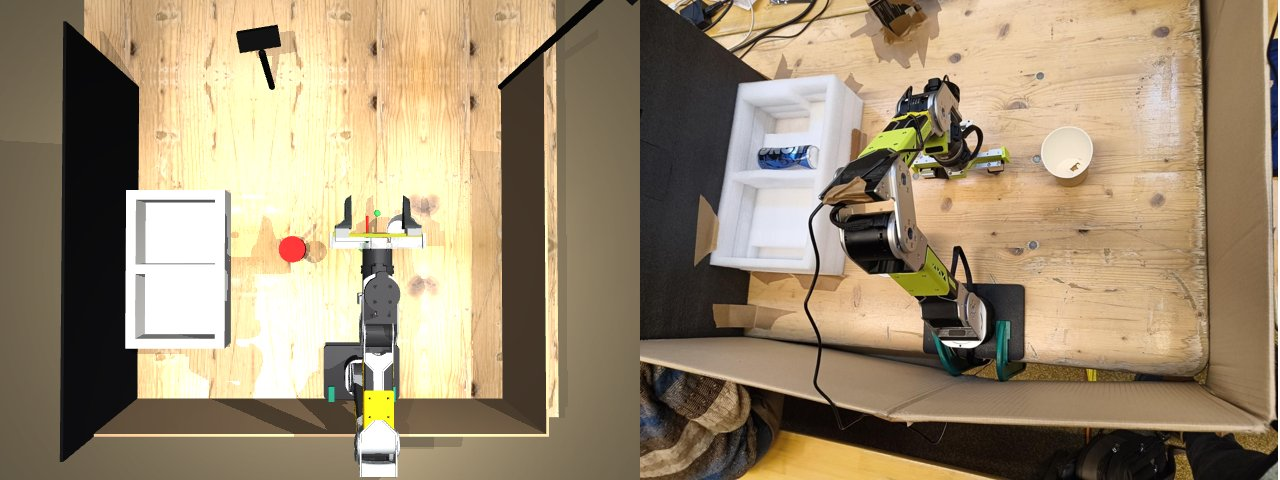
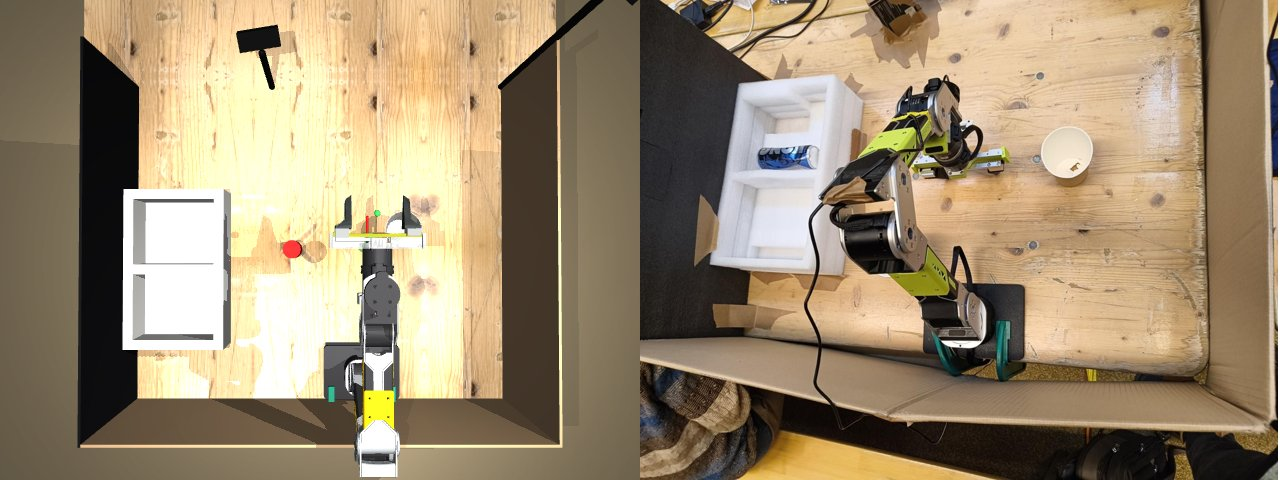
Real setup: use the measured walls, bin, cameras and objects
Walls 37 cm, bin 12 cm tall, can 13 cm x 4.5 cm (15 g), paper cup
11 cm x 9 cm (8 g). Camera FOVs come from the spec-sheet diagonal (C920
~75 deg, LeRobot and wrist cameras 100 deg), converted to MuJoCo's
vertical fovy for 4:3 frames. The wrist camera mount is configurable and
moved in front of the gripper housing, so it sees the fingers and the table.

diff --git a/simulation/real_setup.py b/simulation/real_setup.py
@@ -111,6 +111,12 @@ def apply_real_setup(spec: mujoco.MjSpec, cfg: dict | None = None,
     _add_walls(spec, ws, cfg["walls"])
     info.bin_sites = _add_bin(spec, ws, cfg["bin"])
     info.cameras = _add_cameras(spec, ws, cfg["cameras"])
+    if "wrist_camera" in cfg and spec.camera("wrist") is not None:
+        wc, cam = cfg["wrist_camera"], spec.camera("wrist")
+        cam.fovy = camera_fovy(wc)
+        if "pos" in wc:
+            cam.pos = wc["pos"]
+            cam.quat = _lookat_quat(wc["pos"], wc["look_at"], [0, 0, 1])
     if with_objects:
         info.objects = [_add_object(spec, ws, o) for o in cfg.get("objects", [])]
     return info
@@ -264,6 +270,15 @@ def _add_bin(spec, ws: Workspace, b) -> list[str]:
     return sites
 
 
+def camera_fovy(cam: dict) -> float:
+    """Vertical fov [deg] from `fovy`, or from a spec-sheet diagonal fov and the aspect."""
+    if "fovy" in cam:
+        return float(cam["fovy"])
+    w, h = cam.get("aspect", [4, 3])
+    half_diag = np.tan(np.radians(cam["fov_diagonal_deg"]) / 2)
+    return float(np.degrees(2 * np.arctan(half_diag * h / np.hypot(w, h))))
+
+
 def _add_cameras(spec, ws: Workspace, cams) -> list[str]:
     mat = _material(spec, "camera_body_mat", _COLORS["camera"])
     names = []
@@ -271,7 +286,7 @@ def _add_cameras(spec, ws: Workspace, cams) -> list[str]:
         pos = ws.world(cam["from_left"], cam["from_near"], cam["height"])
         target = ws.world(*cam["look_at"])
         quat = _lookat_quat(pos, target, [0, 0, 1])
-        spec.worldbody.add_camera(name=cam["name"], pos=pos, quat=quat, fovy=cam["fovy"])
+        spec.worldbody.add_camera(name=cam["name"], pos=pos, quat=quat, fovy=camera_fovy(cam))
         # Camera housing and its post down to the table (visual only).
         body = spec.worldbody.add_body(name=f"{cam['name']}_mount", pos=pos, quat=quat)
         _box(body, f"{cam['name']}_housing", [0, 0, 0.02], [0.045, 0.02, 0.02], mat,

diff --git a/simulation/README.md b/simulation/README.md
@@ -6,7 +6,7 @@ external cameras. The dimensions come from the hand-drawn sketch and the photos 
 `reference_photos/`.
 
 ![top-down: sim vs. photo](docs/topdown_sim_vs_photo.jpg)
-![side view, cam_corner, cam_far](docs/side_cam_corner_cam_far.jpg)
+![cam_corner, cam_far, wrist](docs/cameras.jpg)
 
 ## Run it
 
@@ -54,13 +54,17 @@ All measurements are in **`config/real_setup.json`**, in workspace coordinates
 | Part | Value | Source |
 |---|---|---|
 | Workspace | 98 × 84 cm | measured |
-| Robot (joint-1 axis) | 38 cm from the right wall, 7.5 cm from the near wall | 38 cm measured, 7.5 cm **estimated from photo** |
+| Robot (joint-1 axis) | 38 cm from the right wall; plate flush with the near wall (axis 7.5 cm out) | measured |
 | Base plate | 19 × 15 × 1.2 cm, black, 2 green clamps | estimated from photo |
 | Foam bin | 25 × 40 cm, 15 cm from the near wall, against the left wall | measured |
-| Bin height / wall / divider | 10 cm / 2.5 cm / one divider at the middle → `bin_0`, `bin_1` | **estimated** |
-| `cam_far` | far edge, 36 cm from the left, 30 cm high | measured; aim and FOV **estimated** |
-| `cam_corner` | far-right corner, 60 cm high (gooseneck webcam) | measured; aim and FOV **estimated** |
-| Walls | cardboard 30 cm (near, right), black board 45 cm (left) | **estimated** |
+| Bin height / divider | 12 cm, one divider in the middle → `bin_0`, `bin_1` | measured |
+| Bin wall / floor thickness | 2.5 cm / 2 cm | **estimated** |
+| `cam_far` | LeRobot camera, far edge, 36 cm from the left, 30 cm high, 100° FOV | measured; aim **estimated** |
+| `cam_corner` | Logitech C920 on a gooseneck, far-right corner, 60 cm high, ~75° FOV | measured; aim **estimated** |
+| `wrist` | on the gripper, 100° FOV, 8 cm behind and 6 cm above the fingertips | FOV measured; mount spot **estimated** |
+| Walls | 37 cm (cardboard near/right, black board left) | measured |
+| Can | 13 cm tall, 4.5 cm diameter, 15 g | measured |
+| Paper cup | 11 cm tall, 9 cm top diameter (6 cm bottom, estimated), 8 g | measured |
 | Table texture | cropped from the top-down photo | `textures/table_wood.png` |
 
 Named things for scripts and tasks: sites `bin_0` (near compartment), `bin_1` (far
@@ -73,9 +77,9 @@ compartment), `can_site` and `cup_site`; cameras `cam_far`, `cam_corner`, `wrist
 
 ```jsonc
 {"name": "can", "type": "can", "from_left": 0.42, "from_near": 0.40,
- "radius": 0.033, "height": 0.115, "mass": 0.03, "rgba": [0.75, 0.05, 0.05, 1]}
+ "radius": 0.0225, "height": 0.13, "mass": 0.015, "rgba": [0.75, 0.05, 0.05, 1]}
 {"name": "cup", "type": "cup", "from_left": 0.70, "from_near": 0.45,       // hollow, open top
- "top_radius": 0.040, "bottom_radius": 0.028, "height": 0.09, "wall": 0.002, "mass": 0.01}
+ "top_radius": 0.045, "bottom_radius": 0.030, "height": 0.11, "wall": 0.002, "mass": 0.008}
 {"name": "coke", "type": "mesh", "file": "assets/coke_can.obj", "scale": 1.0,  // your own mesh
  "from_left": 0.42, "from_near": 0.40, "mass": 0.02}
 ```
@@ -95,6 +99,9 @@ centre, and the object still falls in.
 
 - Arm-link collisions: only the gripper palm and fingers collide (that's how Seeed's
   model is set up). The upper arm can pass through the bin walls and the near wall.
-- Camera intrinsics and extrinsics: positions are measured, but the aim point and FOV
-  are guesses. Compare `renders/cam_*.png` with real frames and adjust `look_at` and `fovy`.
+- Camera aim: the positions and FOVs are measured, but where each camera points
+  (`look_at`) and the wrist mount spot are guesses. Compare `renders/cam_*.png` with real
+  frames and adjust them. FOVs are read as spec-sheet **diagonal** angles and
+  converted to MuJoCo's vertical `fovy` for 4:3 frames (100° → 71°, 75° → 49°);
+  give `fovy` directly to override.
 - The foam bin's inner steps and inserts, cables, and the clutter beyond the far edge.
